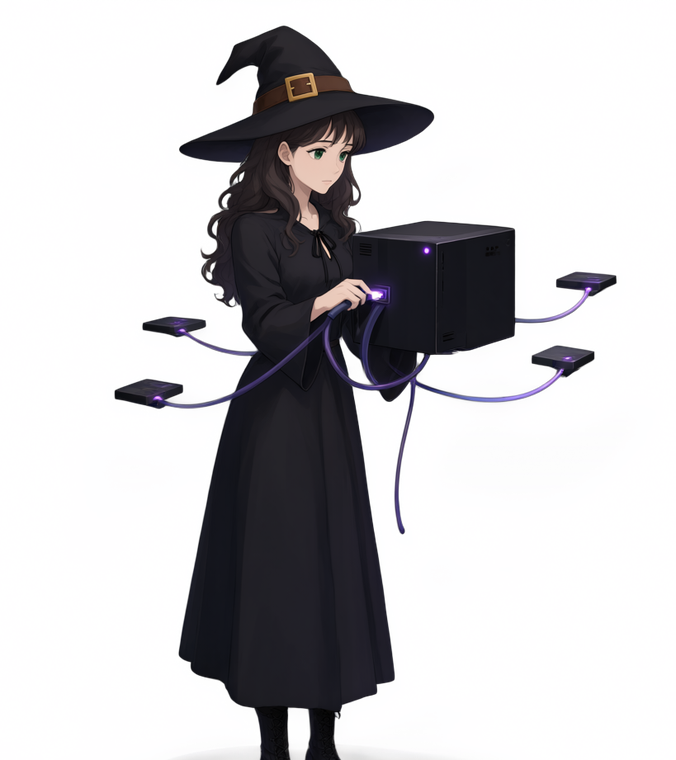
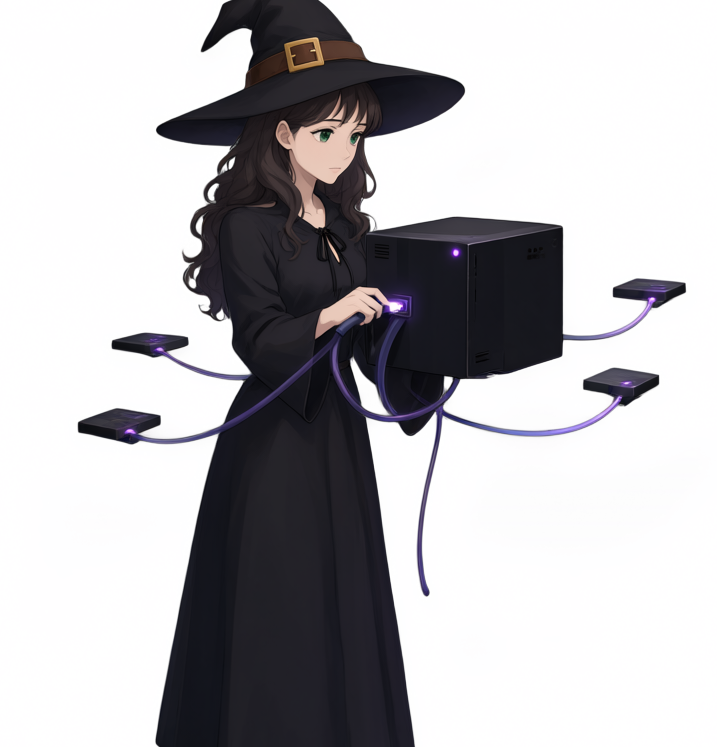
Tighten medium plans for head-variant native RGBA art

Changed region(s): [[0.0932, 0.0, 0.963, 1.0]]

diff --git a/src/api/assets.rs b/src/api/assets.rs
@@ -350,7 +350,7 @@ pub const SERVICE_ART: [ServiceArt; 19] = [
         slug: "ai-assistants",
         image: include_bytes!("../../assets/services/ai-assistants.png"),
         width: 760,
-        height: 680,
+        height: 603,
     },
     ServiceArt {
         slug: "ai-automation",
@@ -367,14 +367,14 @@ pub const SERVICE_ART: [ServiceArt; 19] = [
     ServiceArt {
         slug: "ai-mcp",
         image: include_bytes!("../../assets/services/ai-mcp.png"),
-        width: 676,
-        height: 760,
+        width: 717,
+        height: 747,
     },
     ServiceArt {
         slug: "ai-vision",
         image: include_bytes!("../../assets/services/ai-vision.png"),
-        width: 744,
-        height: 760,
+        width: 737,
+        height: 665,
     },
     ServiceArt {
         slug: "comfyui-media",
@@ -385,8 +385,8 @@ pub const SERVICE_ART: [ServiceArt; 19] = [
     ServiceArt {
         slug: "design-figma",
         image: include_bytes!("../../assets/services/design-figma.png"),
-        width: 710,
-        height: 760,
+        width: 760,
+        height: 739,
     },
     ServiceArt {
         slug: "desktop-apps",
@@ -403,14 +403,14 @@ pub const SERVICE_ART: [ServiceArt; 19] = [
     ServiceArt {
         slug: "fullstack-any",
         image: include_bytes!("../../assets/services/fullstack-any.png"),
-        width: 744,
-        height: 760,
+        width: 760,
+        height: 691,
     },
     ServiceArt {
         slug: "legacy-refactor",
         image: include_bytes!("../../assets/services/legacy-refactor.png"),
         width: 760,
-        height: 751,
+        height: 690,
     },
     ServiceArt {
         slug: "local-private-dev",
@@ -433,8 +433,8 @@ pub const SERVICE_ART: [ServiceArt; 19] = [
     ServiceArt {
         slug: "small-fixes",
         image: include_bytes!("../../assets/services/small-fixes.png"),
-        width: 708,
-        height: 760,
+        width: 737,
+        height: 706,
     },
     ServiceArt {
         slug: "support",
@@ -451,8 +451,8 @@ pub const SERVICE_ART: [ServiceArt; 19] = [
     ServiceArt {
         slug: "voice-ai",
         image: include_bytes!("../../assets/services/voice-ai.png"),
-        width: 643,
-        height: 760,
+        width: 697,
+        height: 706,
     },
     ServiceArt {
         slug: "web-any",
